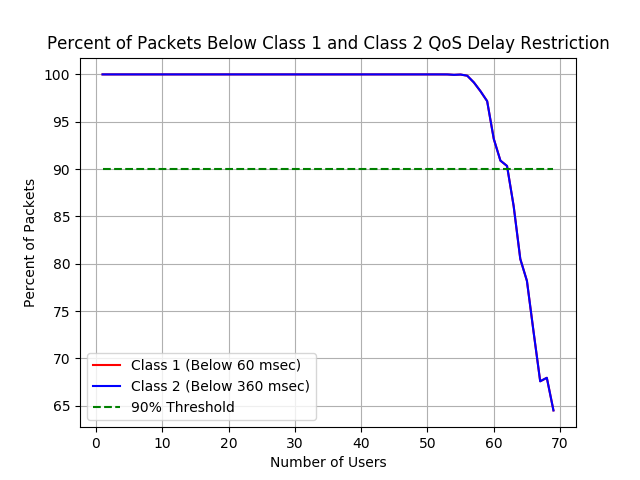
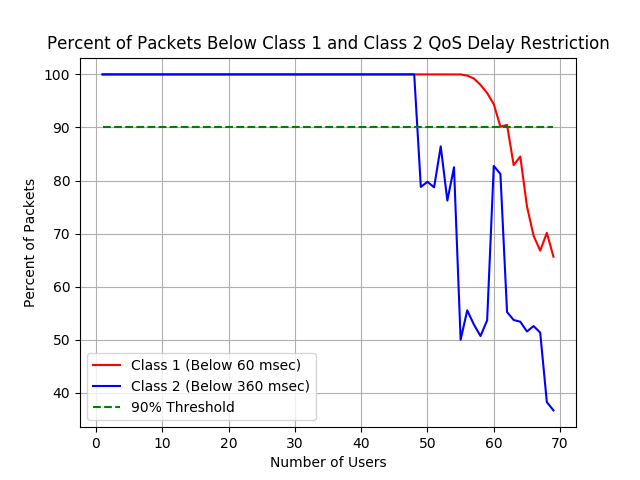
was plotting class 1 twice for POP plots

diff --git a/simulation.py b/simulation.py
@@ -219,15 +219,15 @@ plt.grid()
 plt.xlabel("Number of Users")
 plt.ylabel("Throughput (Kbps)")
 plt.title("Number of Users vs Throughput Per Class")
+"""
 if scheduler == 0:
-    #plt.savefig("figures/Priority_Oriented_Throughput.png")
-    a = 0
+    plt.savefig("figures/Priority_Oriented_Throughput.png")
 elif scheduler == 1:
-    #plt.savefig("figures/WRR_Throughput.png")
-    a = 0
+    plt.savefig("figures/WRR_Throughput.png")
 elif scheduler == 2:
-    #plt.savefig("figures/WRR_PFT_Throughput.png")
-    a = 0
+    plt.savefig("figures/WRR_PFT_Throughput.png")
+"""
+
 #plt.show()
 
 plt.figure(2)
@@ -247,17 +247,14 @@ plt.ylabel("Average Delay (ms)")
 plt.title("Number of Users vs Average Delay Per Class")
 plt.ylim([0, 700])
 
-
-
+"""
 if scheduler == 0:
-    #plt.savefig("figures/Priority_Oriented_Avg_Delay.png")
-    a = 0
+    plt.savefig("figures/Priority_Oriented_Avg_Delay.png")
 elif scheduler == 1:
-    #plt.savefig("figures/WRR_Avg_Delay.png")
-    a = 0
+    plt.savefig("figures/WRR_Avg_Delay.png")
 elif scheduler == 2:
-    #plt.savefig("figures/WRR_PFT_Avg_Delay.png")
-    a = 0
+    plt.savefig("figures/WRR_PFT_Avg_Delay.png")
+"""
 
 plt.figure(3)
 plt.plot(N_array, class_1_std_delay, label='Class 1', color='r')
@@ -268,19 +265,20 @@ plt.grid()
 plt.xlabel("Number of Users")
 plt.ylabel("Standard Deviation of Delay (ms)")
 plt.title("Number of Users vs Standard Deviation of Delay Per Class")
+
+"""
 if scheduler == 0:
-    #plt.savefig("figures/Priority_Oriented_Std_Delay.png")
-    a = 0
+    plt.savefig("figures/Priority_Oriented_Std_Delay.png")
 elif scheduler == 1:
-    #plt.savefig("figures/WRR_Std_Delay.png")
-    a = 0
+    plt.savefig("figures/WRR_Std_Delay.png")
+
 elif scheduler == 2:
-    #plt.savefig("figures/WRR_PFT_Std_Delay.png")
-    a = 0
+    plt.savefig("figures/WRR_PFT_Std_Delay.png")
+"""
 
 plt.figure(4)
 plt.plot(N_array, c1_pop_below_QOS, label='Class 1 (Below 60 msec)', color='r')
-plt.plot(N_array, c1_pop_below_QOS, label='Class 2 (Below 360 msec)', color='b')
+plt.plot(N_array, c2_pop_below_QOS, label='Class 2 (Below 360 msec)', color='b')
 
 plt.plot(N_array, np.ones(len(N_array))*90.0, label='90% Threshold', color='g', linestyle='--')
 
@@ -289,15 +287,13 @@ plt.grid()
 plt.xlabel("Number of Users")
 plt.ylabel("Percent of Packets")
 plt.title("Percent of Packets Below Class 1 and Class 2 QoS Delay Restriction")
+
 if scheduler == 0:
-    #plt.savefig("figures/Priority_Oriented_POP_Delay.png")
-    a = 0
+    plt.savefig("figures/Priority_Oriented_POP_Delay.png")
 elif scheduler == 1:
-    #plt.savefig("figures/WRR_POP_Delay.png")
-    a = 0
+    plt.savefig("figures/WRR_POP_Delay.png")
 elif scheduler == 2:
-    #plt.savefig("figures/WRR_PFT_POP_Delay.png")
-    a = 0
+    plt.savefig("figures/WRR_PFT_POP_Delay.png")
 
 # plot the throughput for per class for each MS
 for i in range(N_MS):
@@ -320,7 +316,7 @@ for i in range(N_MS):
     plt.plot(N_array, c2_throughput, label='Class 2', color='g')
     plt.plot(N_array, c3_throughput, label='Class 3', color='b')
     plt.plot(N_array, np.ones(len(N_array))*RRM.MS_SE[i]/1e6, label='Max Throughput', color='k', linestyle='--')
-
+    """
     plt.legend()
     plt.grid()
     plt.xlabel("Number of Users")
@@ -329,4 +325,4 @@ for i in range(N_MS):
     plt.title(title_n)
     path = "figures/"+filename+s_name
     plt.savefig(path)
-
+    """

diff --git a/RRM_lib.py b/RRM_lib.py
@@ -45,17 +45,17 @@ class Radio_Resource_Manager(object):
     def __init__(self, RRM_id, N, N_MS, downlink_bw):
         print "\nInitializing Radio Resource Manager (ID %d) and %d users" % (RRM_id, N)
 
-        ################################################################################################################
+        ##########################
         # Input Parameters
-        ################################################################################################################
+        ##########################
         self.RRM_id = RRM_id                            # which RRM is this
         self.N = N                                      # number of users
         self.N_MS = N_MS                                # number of mobile stations
         self.downlink_bw = downlink_bw                  # downlink bw
 
-        ################################################################################################################
+        ##########################
         # Helpful Constants
-        ################################################################################################################
+        ##########################
         self.T_pkt_1 = (class_1.get("packet_size") / class_1.get("des_throughput"))*1e3  # msec
         self.T_pkt_2 = (class_2.get("packet_size") / class_2.get("des_throughput"))*1e3  # msec
         self.T_pkt_3 = (class_3.get("packet_size") / class_3.get("des_throughput"))*1e3  # msed
@@ -74,9 +74,9 @@ class Radio_Resource_Manager(object):
         #print self.N_burst_2
 
 
-        ################################################################################################################
+        ##########################
         # State Tracking Variables
-        ################################################################################################################
+        ##########################
         self.usr_state = [0]*self.N
         self.MS_SE = [0]*self.N_MS                      # contains the spectral efficiencies assigned to each MS
         self.usr_start_time = [-1] * self.N
@@ -122,11 +122,11 @@ class Radio_Resource_Manager(object):
     def reset(self):
         print "Resetting RRM"
 
-    ####################################################################################################################
+    ##########################
     """
     Main Functions
     """
-    ####################################################################################################################
+    ##########################
 
     def update_user_state(self, current_slt):
         #print "\nUpdating User State**"
@@ -460,11 +460,11 @@ class Radio_Resource_Manager(object):
             print "Transmit Queue was not emptied"
             sys.exit()
 
-    ####################################################################################################################
+    ##########################
     """
     Helper Functions
     """
-    ####################################################################################################################
+    ##########################
     def class_n_packets_avail(self, class_id):
 
         for usr in self.class_n_usrs[class_id-1]:
